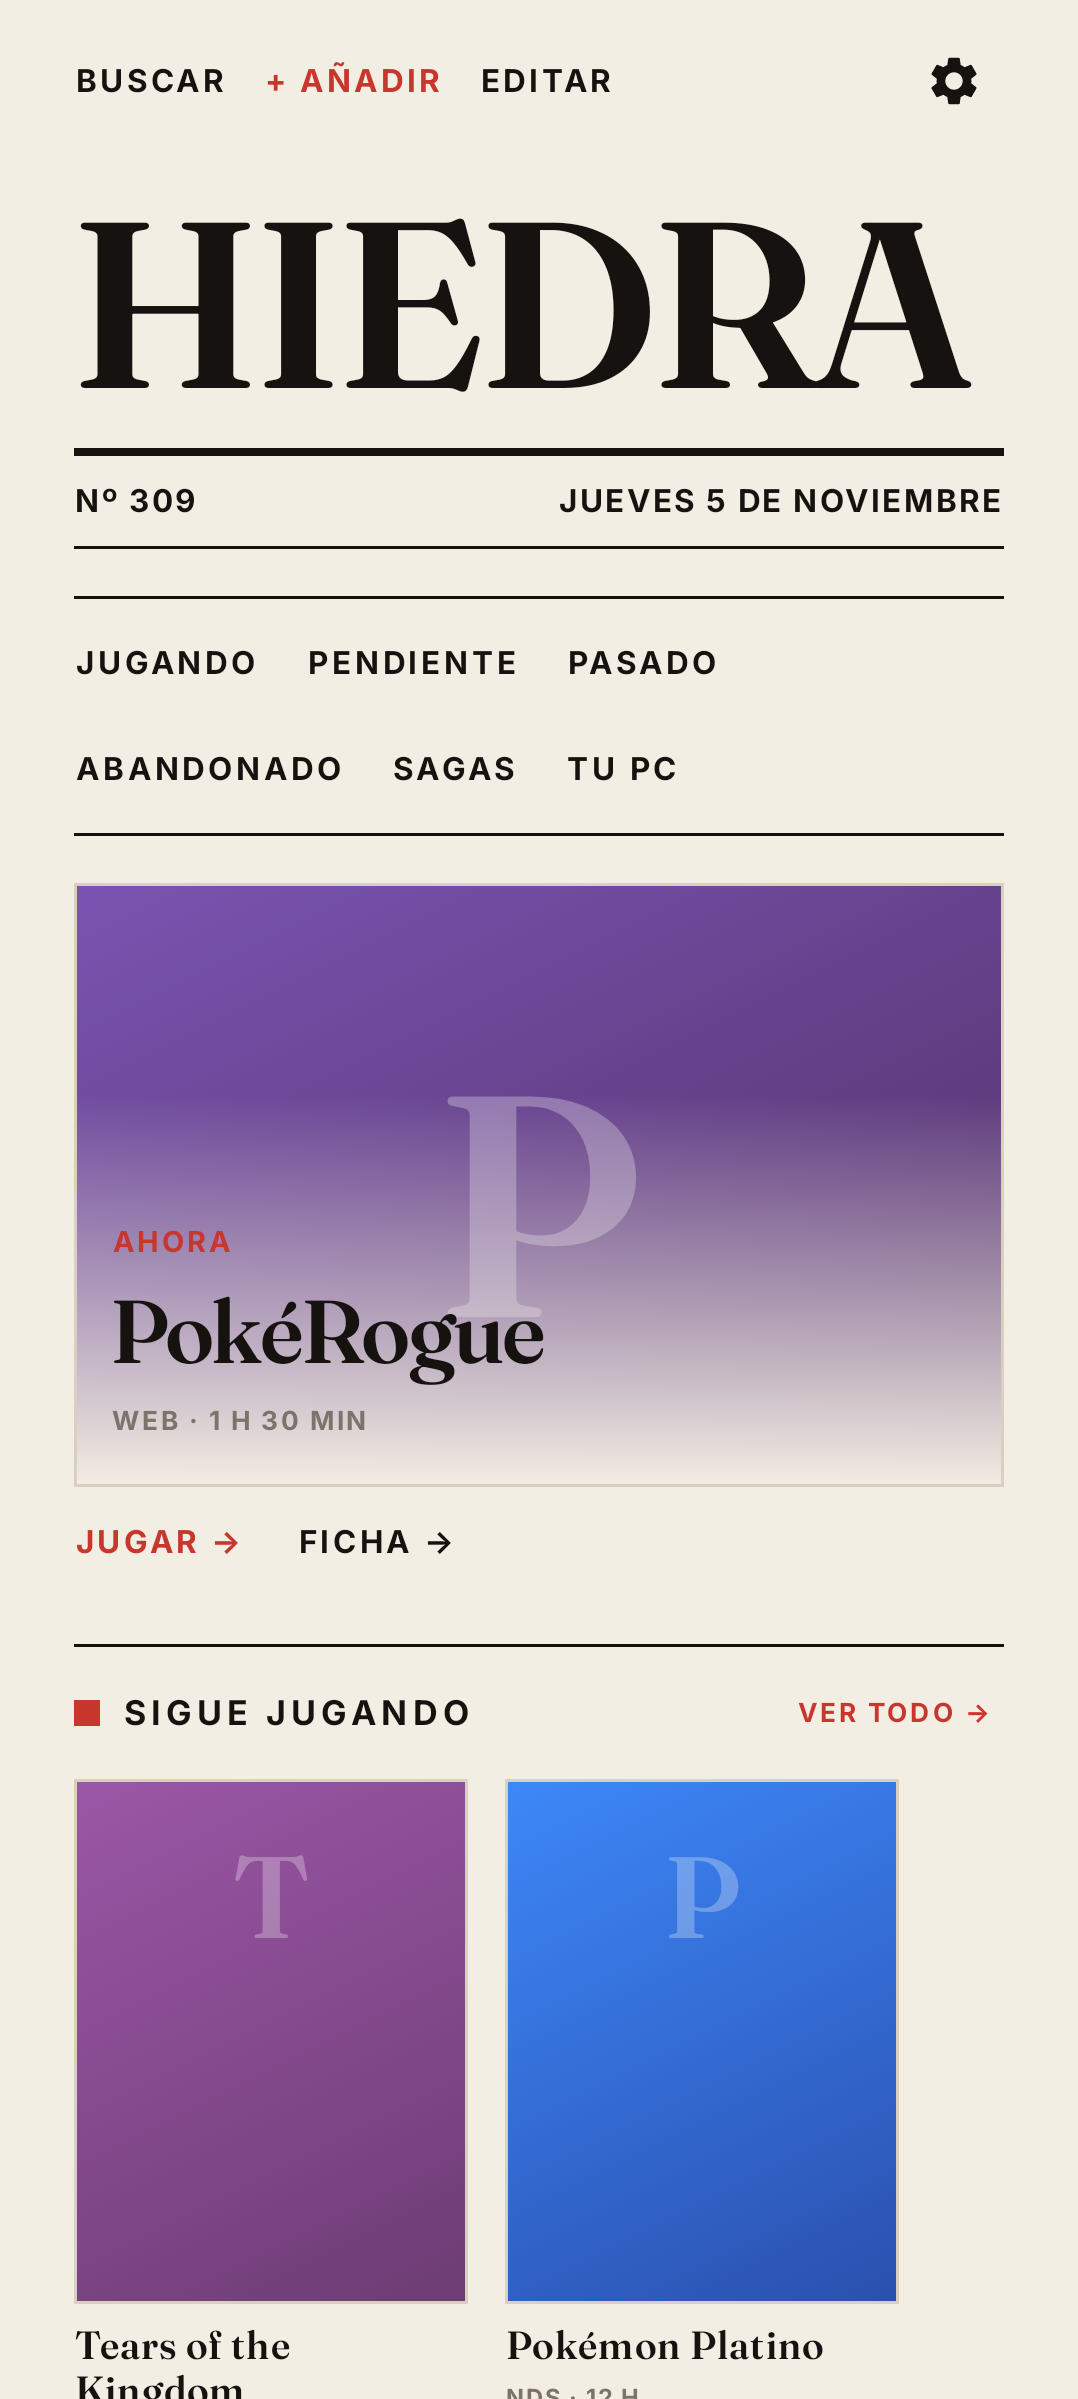
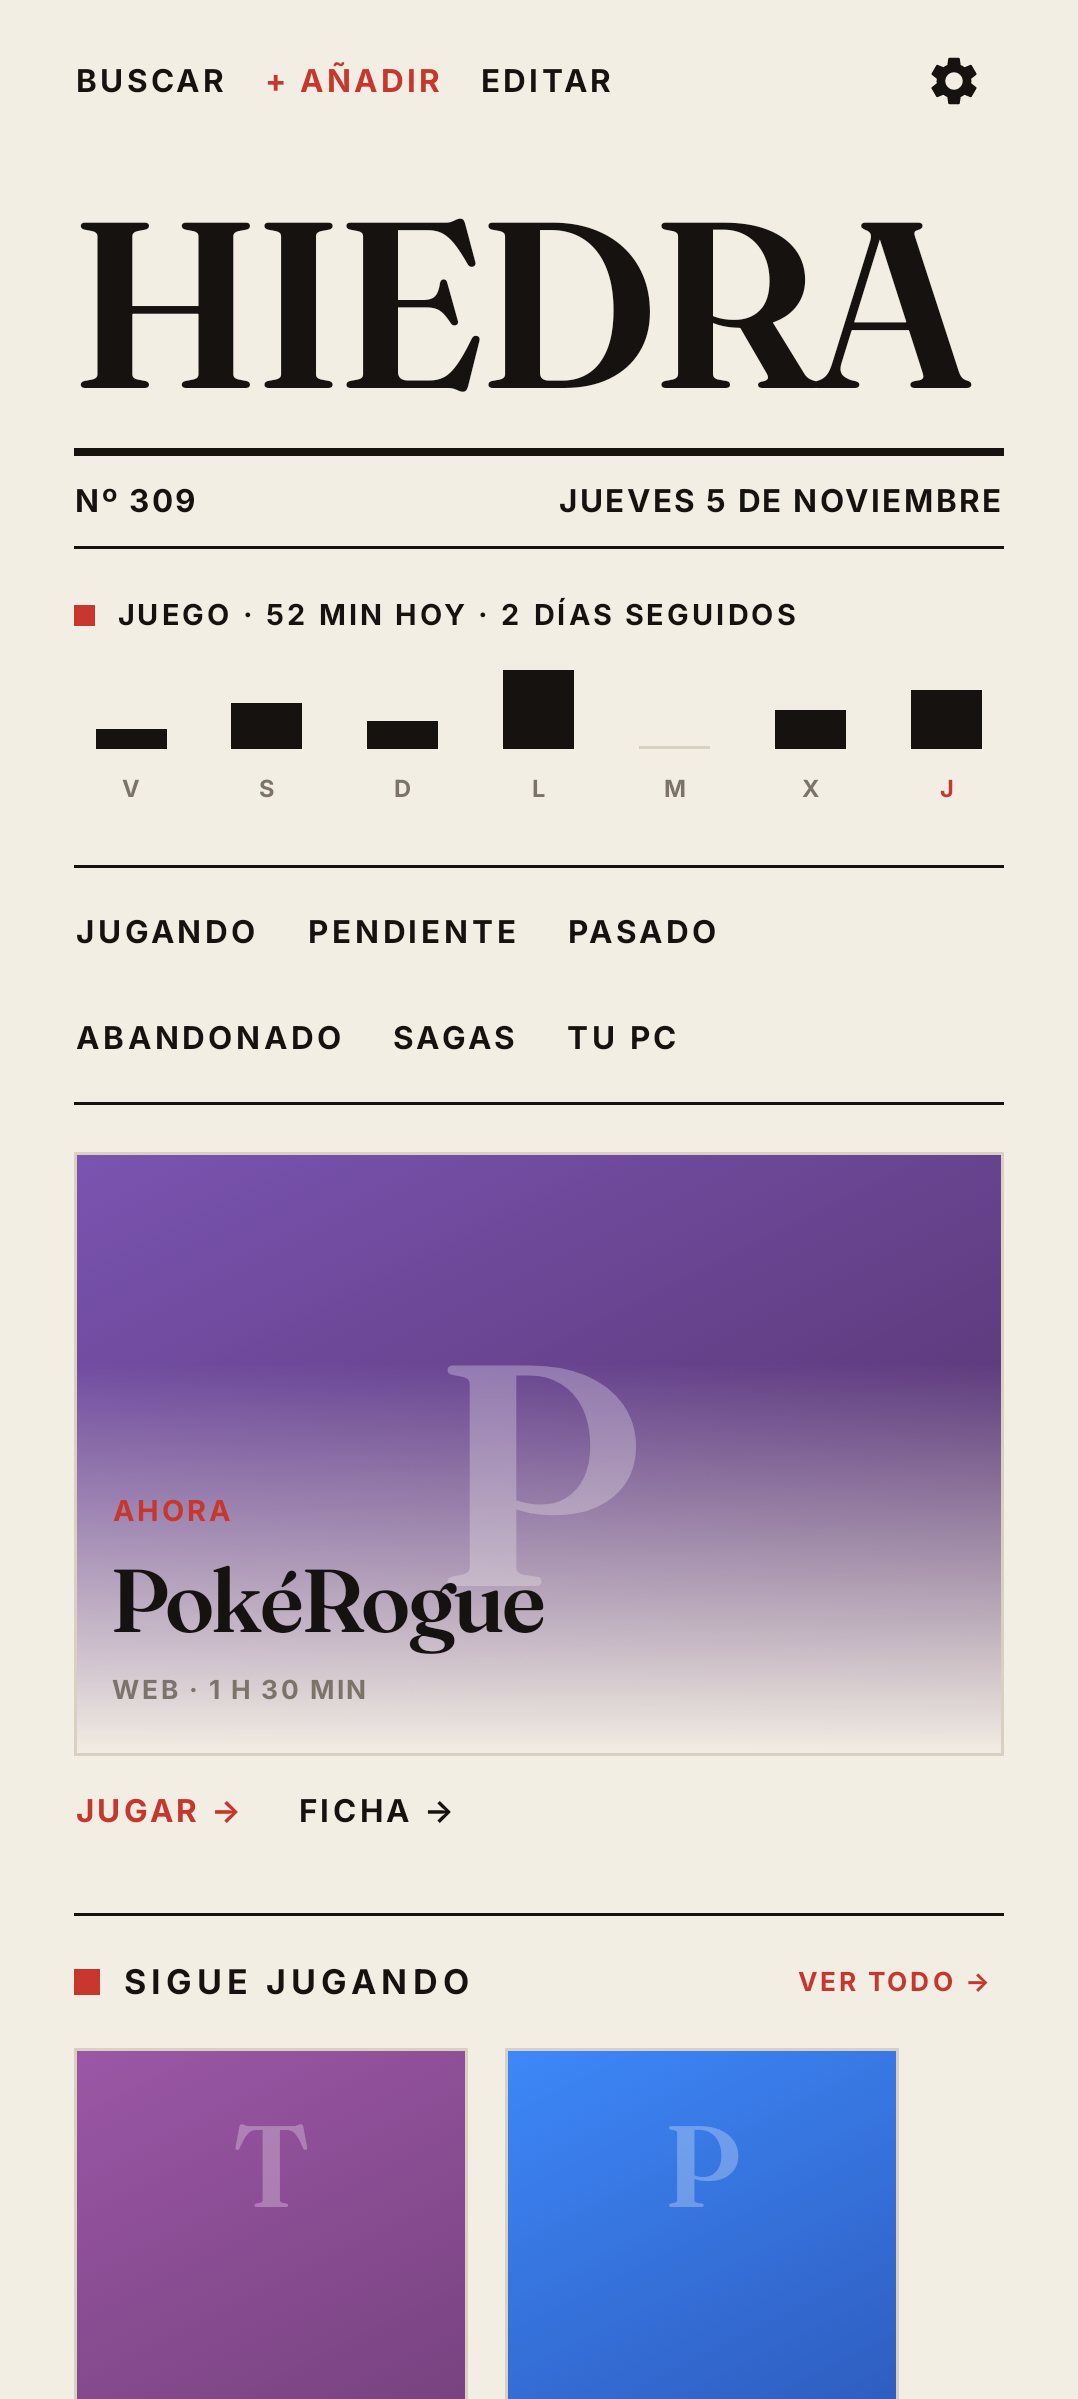
Capturas: la portada con las barras de la semana (horas por día en la siembra)
Claude-Session: https://claude.ai/code/session_01Q4uywen3nuzUg5CTwJaCY5

diff --git a/app/src/test/java/com/gonzalo/hiedra/CapturasTest.kt b/app/src/test/java/com/gonzalo/hiedra/CapturasTest.kt
@@ -45,9 +45,12 @@ class CapturasTest {
         Datos.activo = false; Datos.cargar(ctx)
         Datos.poner("r1", DatosJuego("RAWG", "1/2/2005", listOf("Game Freak"), listOf("Nintendo"), listOf("RPG", "Aventura"), "La tercera versión de Hoenn: Rayquaza, el Frente de Batalla y los dos equipos a la vez.", 76, "IGDB · Pokémon Emerald · 310 jugadores"))
         val ahora = System.currentTimeMillis()
+        // Unos días de juego para que se vean las barras de la semana en la portada (solo en el primero)
+        val hoyD = java.time.LocalDate.now()
+        val diasJuego = listOf(0 to 52, 1 to 35, 2 to 0, 3 to 70, 4 to 25, 5 to 41, 6 to 18).filter { it.second > 0 }.associate { (atras, min) -> hoyD.minusDays(atras.toLong()).toString() to min * 60_000L }
         fun rom(n: String, s: String, k: Int, fav: Boolean = false, jug: Long = 0, ms: Long = 0, veces: Int = 0) {
             val l = Lanzador.rom(s, n); Archivos.poner(l.clave, "content://x/$k", "")
-            Biblioteca.juegos.add(Juego("r$k", n, lanzadores = listOf(l), favorito = fav, anadido = ahora - k * 1000L, ultima = jug, propias = Horas(ms, veces)))
+            Biblioteca.juegos.add(Juego("r$k", n, lanzadores = listOf(l), favorito = fav, anadido = ahora - k * 1000L, ultima = jug, propias = Horas(ms, veces, if (k == 1) diasJuego else emptyMap())))
         }
         rom("Pokémon Esmeralda", "gba", 1, fav = true, jug = ahora - 3600_000, ms = 3 * 3600_000L + 1_200_000, veces = 7)
         rom("Metroid Fusion", "gba", 2); rom("Advance Wars", "gba", 3, fav = true); rom("The Minish Cap", "gba", 4)
